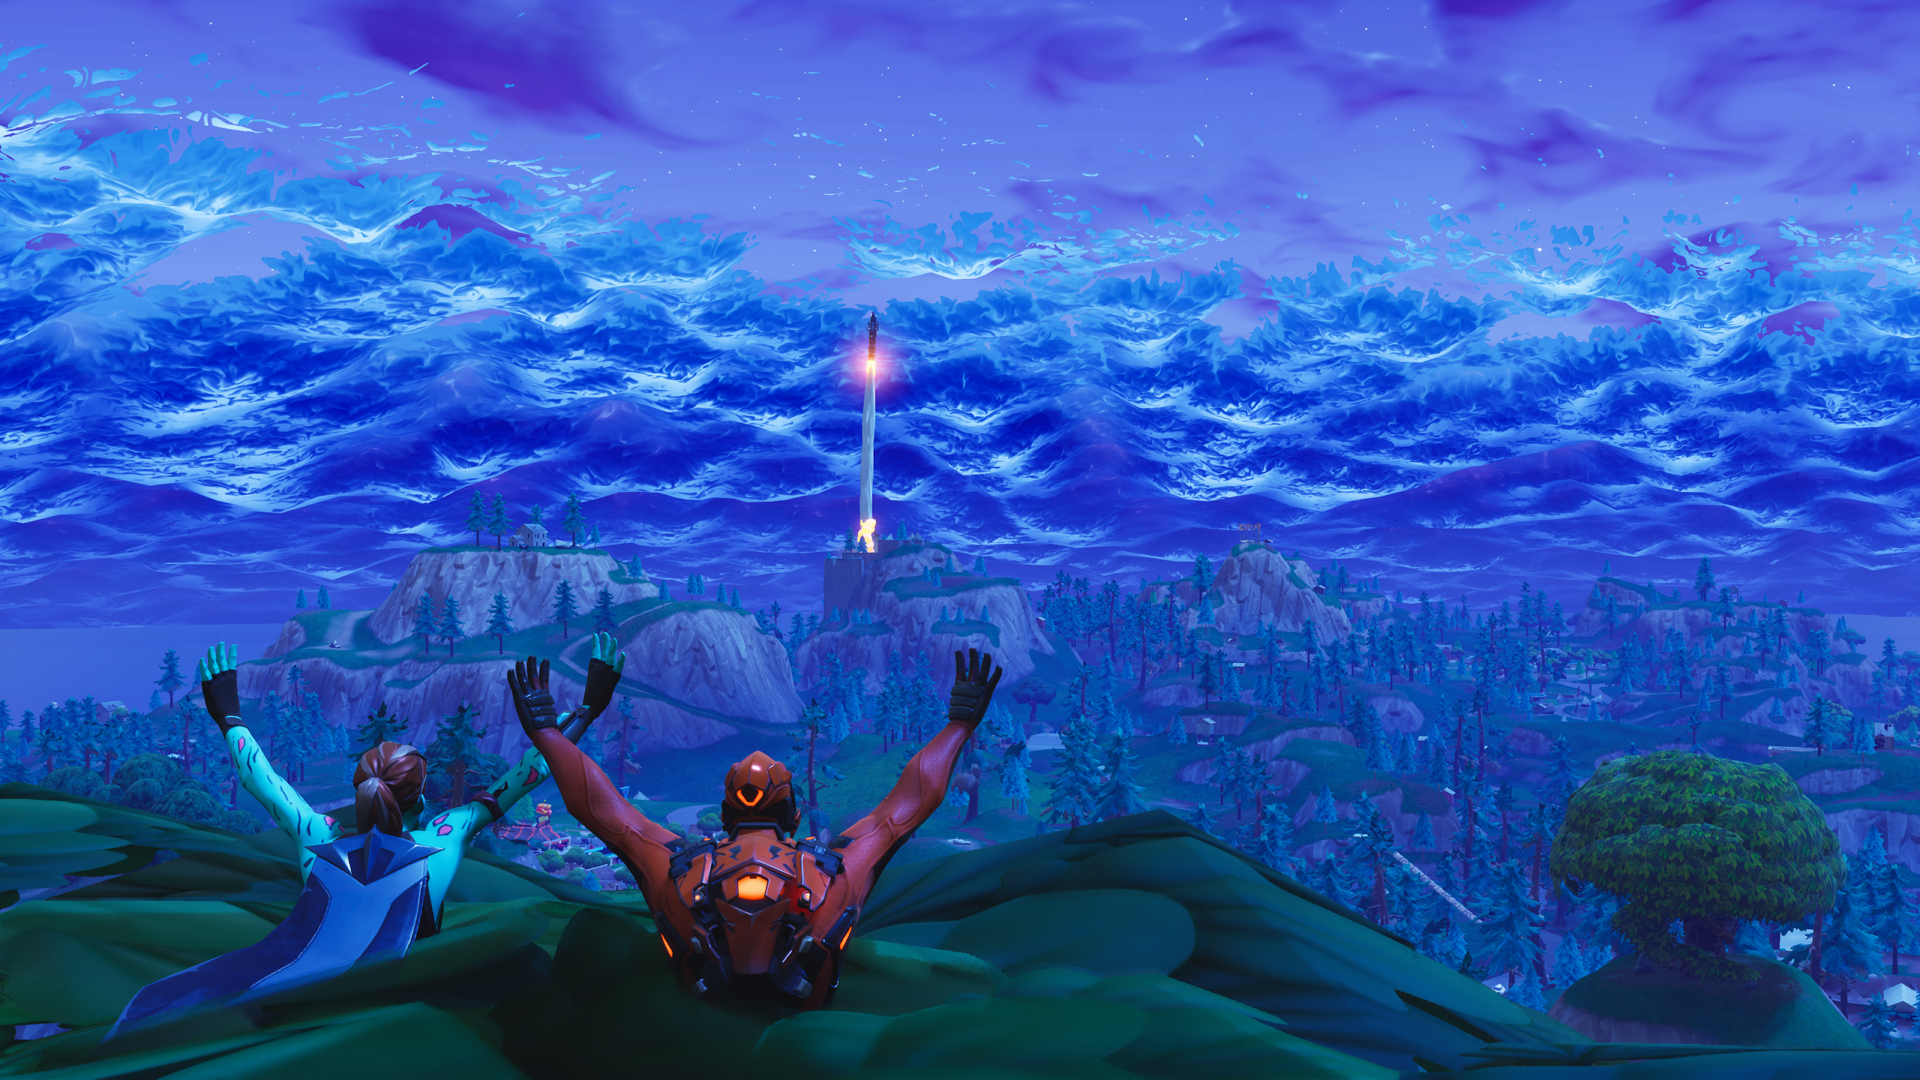
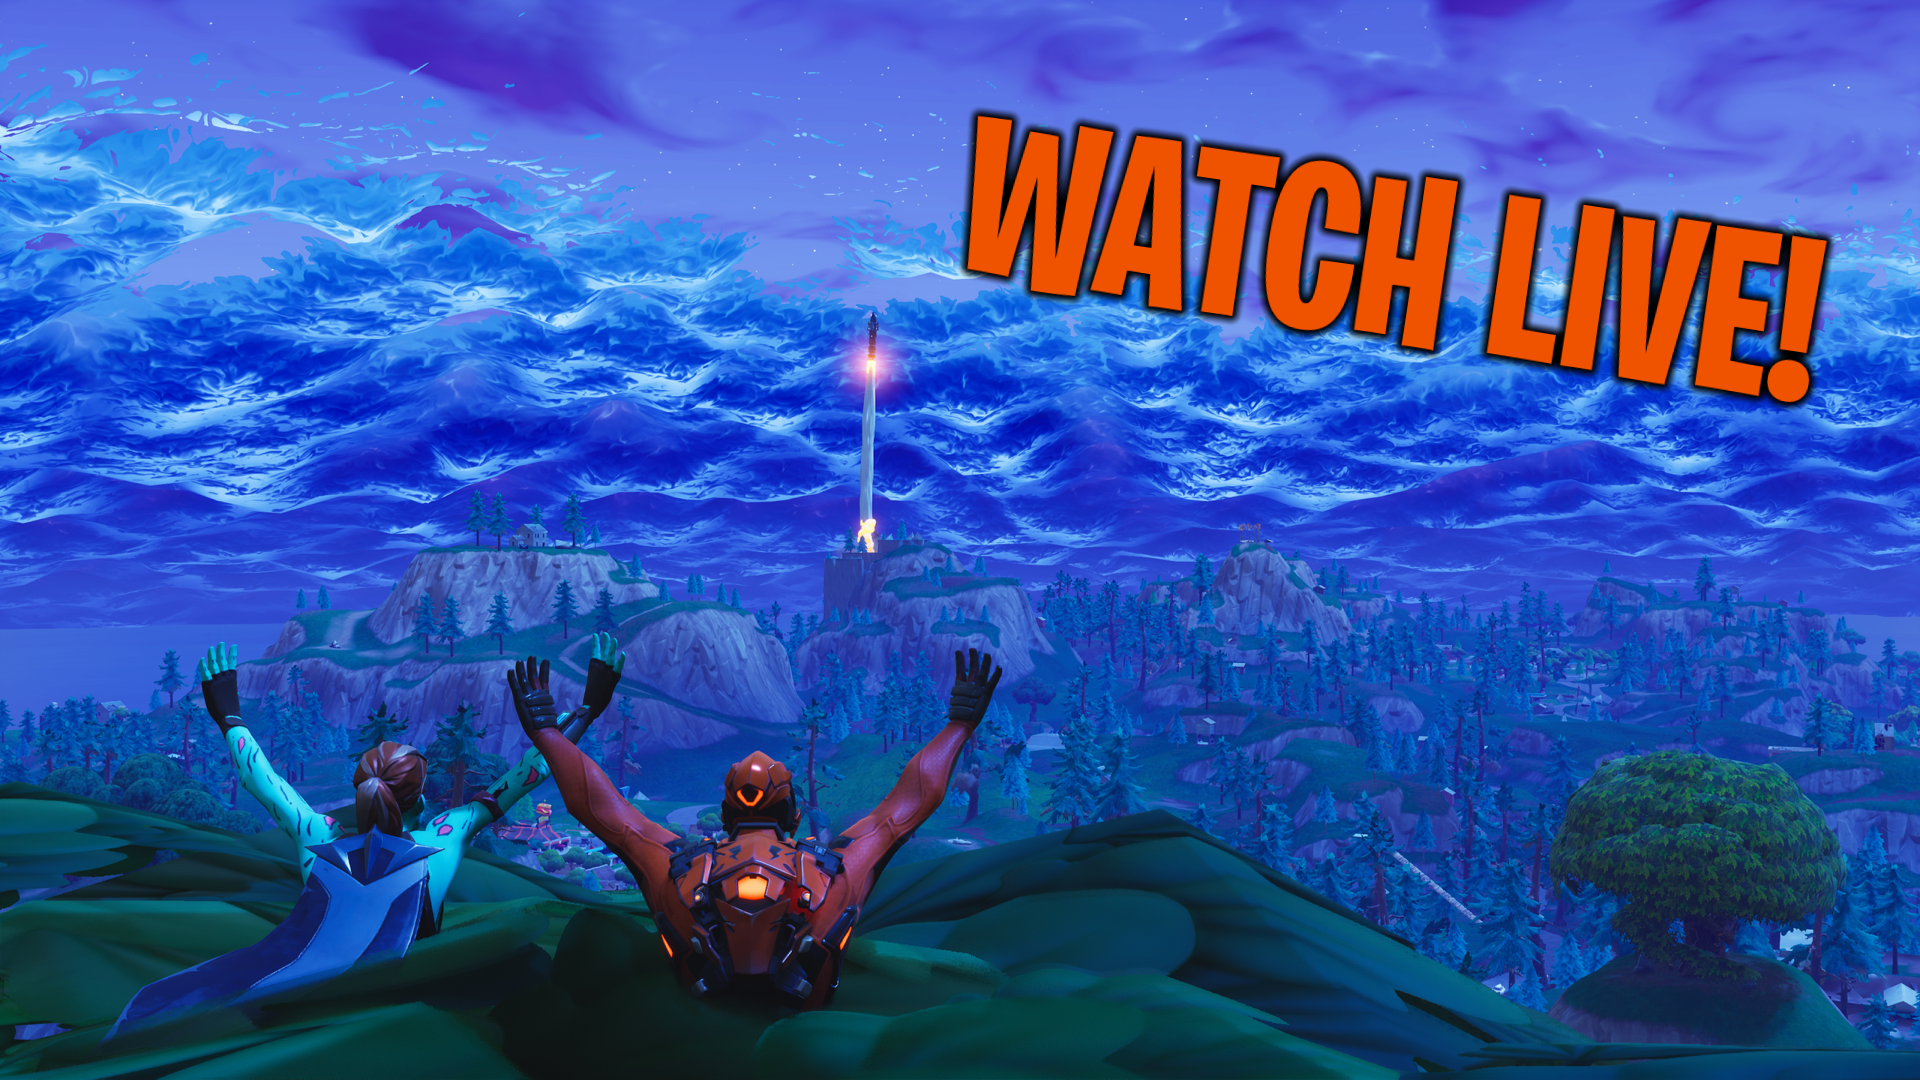
new img folder, carousel sizing, responsive item shop

Changed region(s): [[0.5, 0.0917, 0.9688, 0.3972]]

diff --git a/index.html b/index.html
@@ -47,21 +47,19 @@
         </ol>
         <div class="carousel-inner" role="listbox">
             <div class="item active">
-                <img src="img/Rocket Launch.png">
-                <div class="carousel-caption">
-                    <form action="https://twitch.tv/AugmentEcho">
-                        <button type="submit" class="btn bt-default">Watch Live!</li></button>
-                    </form>
-                </div> 
+                <a href="https://twitch.tv/AugmentEcho">
+                    <img src="img/Rocket Launch.png">
+                </a>
             </div> <!-- End Active -->
             <div class="item">
-                <img src="img/Viking Rift.png">
+                <a href="https://youtube.com/AugmentEcho">
+                    <img src="img/Viking Rift.png">
+                </a>
             </div>
             <div class="item">
-                <img src="img/Viking Point.png">
-                <div class="carousel-caption">
-                    <h3>Join the Echo Chamber</h3>
-                </div>
+                <a href="https://discord.gg/vbWyfMX">
+                    <img src="img/Viking Point.png">
+                </a>
             </div>
         </div>
         <!-- Start Slider Controls -->

diff --git a/styles.css b/styles.css
@@ -28,6 +28,12 @@
 .carousel {
     border: 2px solid #000;
 }
+.carousel-inner {
+    width: 1280px;
+    margin: auto;
+    border-left: #000 solid 2px;
+    border-right: #000 solid 2px;
+}
 .carousel-caption {
     top: 50%;
     transform: translateY(-50%);
@@ -50,12 +56,14 @@ div font {
     font-size: inherit;
 }
 .videoWrapper {
-    width: 100%;
-    height: 100%;
-    margin: auto;
-    max-width: 1280px;
     position: relative;
-	padding-bottom: 56.25%; /* 16:9 */
+    width: 1280px;
+    height: 0;
+    max-width: 100%;
+    float: none;
+    clear: both;
+    margin: 0 auto;
+	padding-bottom: 56.25%; /* 16:9 -- This allows the correct responsive size for the video but also adds a large blank area at the bottom... */
 }
 .videoWrapper iframe {
     position: absolute;
@@ -140,9 +148,12 @@ footer {
         display: none;
     }
   #icon {
-      max-width: 150px;
+      max-width: 250px;
   }  
   h2 {
-      font-size: 2.0em;
+      font-size: 3.0em;
+  }
+  h3 {
+      font-size: 3.0em;
   }
 }

diff --git a/shop.html b/shop.html
@@ -46,14 +46,13 @@
         <h3 style="font-size: 50px; color: #F05300; text-decoration: none; text-shadow: -1px -1px 0 #000, 1px -1px 0 #000, -1px 1px 0 #000, 1px 1px 0 #000;">
             What's in the shop today?
         </h3>
+    </div>
+    <div class="videoWrapper">
         <iframe
             src="https://www.youtube.com/embed/videoseries?list=PLQPb3bQsjrt4Q3UwvEB0Gr48UT81vFxQw&autoplay=1&loop=1"
-            width="1280" 
-            height="720" 
-            frameborder="1" 
+            frameborder="0" 
             allow="autoplay; encrypted-media" 
-            
-            allowfullscreen
+            allowfullscreen="true"
         >
         </iframe>
     </div>

diff --git a/videos.html b/videos.html
@@ -58,7 +58,6 @@
         <iframe
             src="http://player.twitch.tv/?channel=AugmentEcho&muted=true"
             frameborder="0"
-            scrolling="no"
             allowfullscreen="true"
         >
         </iframe>
